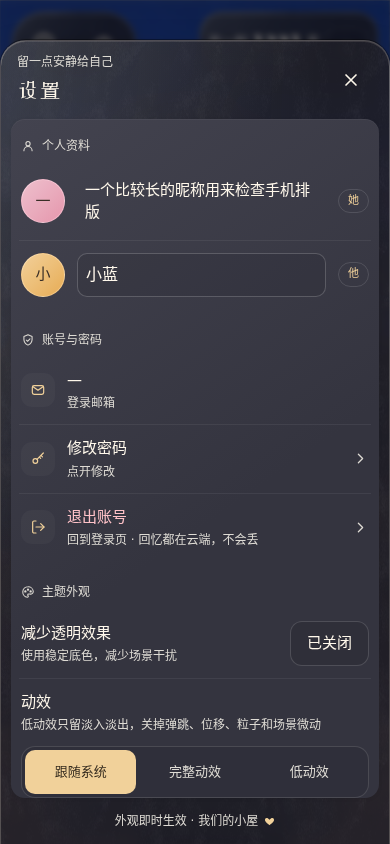
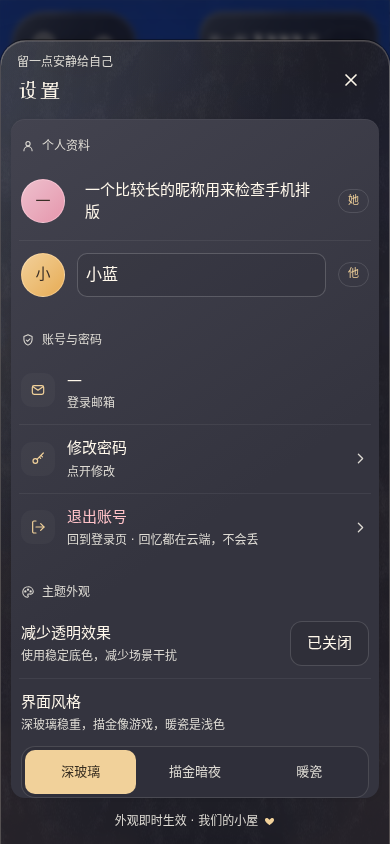
docs: record the spring-drag regression run and refresh the settings shot
The mobile regression log gains the 10-02 run: 104 layouts, four keyboard
cases, interactions (now with the drag from the sheet's content, the hold
before release and the rubber band), safe area and reduced motion all pass
with no page errors. The phone settings screenshot is re-shot from this run
to show the new 界面风格 row, and the 09-29 entry points at the archived
comparison doc.

Claude-Session: https://claude.ai/code/session_01R2aciXfD3saqgczXBTw6vU

diff --git a/ai/features/mobile-ui.md b/ai/features/mobile-ui.md
@@ -41,11 +41,13 @@ Playwright 使用既有脚本依赖加载方式，不增加产品运行时依赖
 - TypeScript 产品与样板独立检查、改动文件 ESLint、Vite 生产构建通过；构建仍有主包超过 500 kB 的体积提示，本轮不扩大到拆包。
 - 视觉：Monet 同 agent 自审，选定正式组件截图登记到 [手机版常驻规范](../design_system/uiux/mobile.md)，全局预览读取同一份登记。日记未改。
 
-2026-09-29：手机布局换成底部托盘（[sheet.tsx](../../src/themes/cinnaglass/ui/sheet.tsx)）。聊天、音乐、工具、房间从底边升起，半高停在对方书下；导航压在托盘上方；音乐可拉满，没有悬浮条；竖屏任务窗也从底边升起。回归脚本随之更新：量尺寸前先等进场动画播完（循环动画不等）；托盘打开时导航中心必须仍能点中；新增音乐托盘两档切换和工具托盘 Esc 收起；横屏安全区改为检查音乐托盘；样板新增 `?screen=enter`（进入世界的加载页）和 `?motion=reduced`。96 组布局、4 类键盘、交互、安全区与减少动态效果全部通过，页面异常 0。设计见 [UI 动效与手机托盘](../design_system/codex-visual/ui-motion/ui-motion.md)。
+2026-09-29：手机布局换成底部托盘（[sheet.tsx](../../src/themes/cinnaglass/ui/sheet.tsx)）。聊天、音乐、工具、房间从底边升起，半高停在对方书下；导航压在托盘上方；音乐可拉满，没有悬浮条；竖屏任务窗也从底边升起。回归脚本随之更新：量尺寸前先等进场动画播完（循环动画不等）；托盘打开时导航中心必须仍能点中；新增音乐托盘两档切换和工具托盘 Esc 收起；横屏安全区改为检查音乐托盘；样板新增 `?screen=enter`（进入世界的加载页）和 `?motion=reduced`。96 组布局、4 类键盘、交互、安全区与减少动态效果全部通过，页面异常 0。设计见 [UI 动效与手机托盘](../../arts/archive/v3-ui-rounds/ui-motion/ui-motion.md)（已移档）。
 
 2026-09-30：加上回忆面板（日记 + 照片墙）两页，13 页 × 8 尺寸 104 组布局；新增交互：回忆托盘半高 / 拉满、灯箱 Esc 只关照片不关托盘、日记草稿收起再从工具菜单打开还在、照片墙拍立得打开灯箱、先开照片墙再切日记仍停在最新一页。全部通过，页面异常 0。设计见 [日记与照片墙](../../arts/archive/v3-ui-rounds/memories/memories.md)。
 
 2026-10-01：回忆改为全屏内容页、导航并进托盘、一次只开一个窗口、托盘关闭按钮、工具改回忆入口、深玻璃。回归改写：内容页占满手机屏幕、灯箱 Esc 只关照片、草稿关页和换样子都在、日记三种和照片墙四种样子都能画出来（每种都量一遍布局）、导航在托盘打开时变透明、点关闭按钮能收起、开回忆 / 房间 / 设置时前一个窗口自己收起；先开照片墙再切日记仍停在最新一页。
+
+2026-10-02：托盘改成苹果的弹簧模型、从任何地方都能拖（[UX 参考 §1](../design_system/uiux/cinnaglass/ux/ux.md)），设置多了「界面风格」一行，暖瓷浅色上线。回归新增拖动检查（用真实触摸事件，拖之前先停住场景，免得指针事件跟着软件渲染的帧到）：从音乐托盘的歌词预览往上推过一半再停住松手，托盘停在拉满、不会当成点了歌词；拉满后再往上拉 150px，位移等于 UIScrollView 橡皮筋（0.55）算出的值，松手弹回顶。104 组布局、4 类键盘、交互、安全区与减少动态效果全部通过，页面异常 0；设置的截图重拍（多了界面风格）。
 
 ## 复跑入口
 
